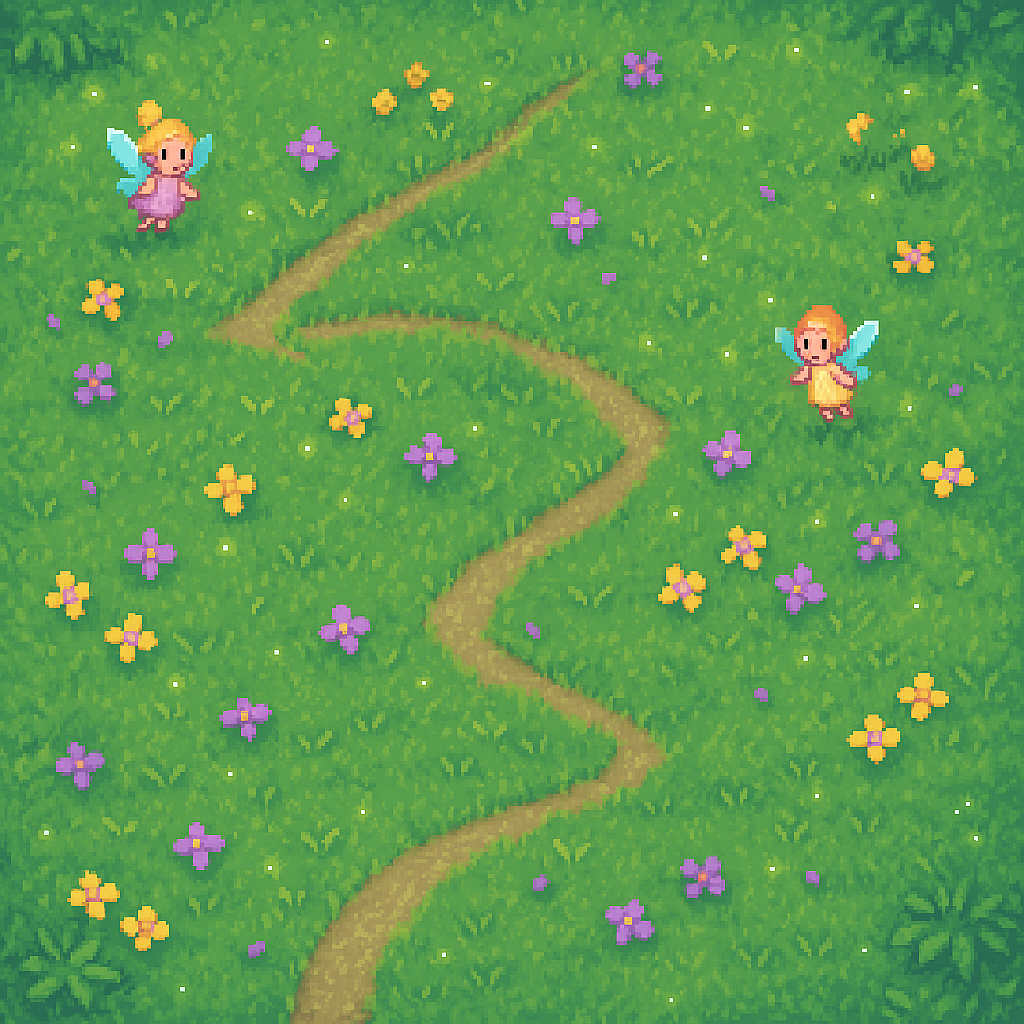
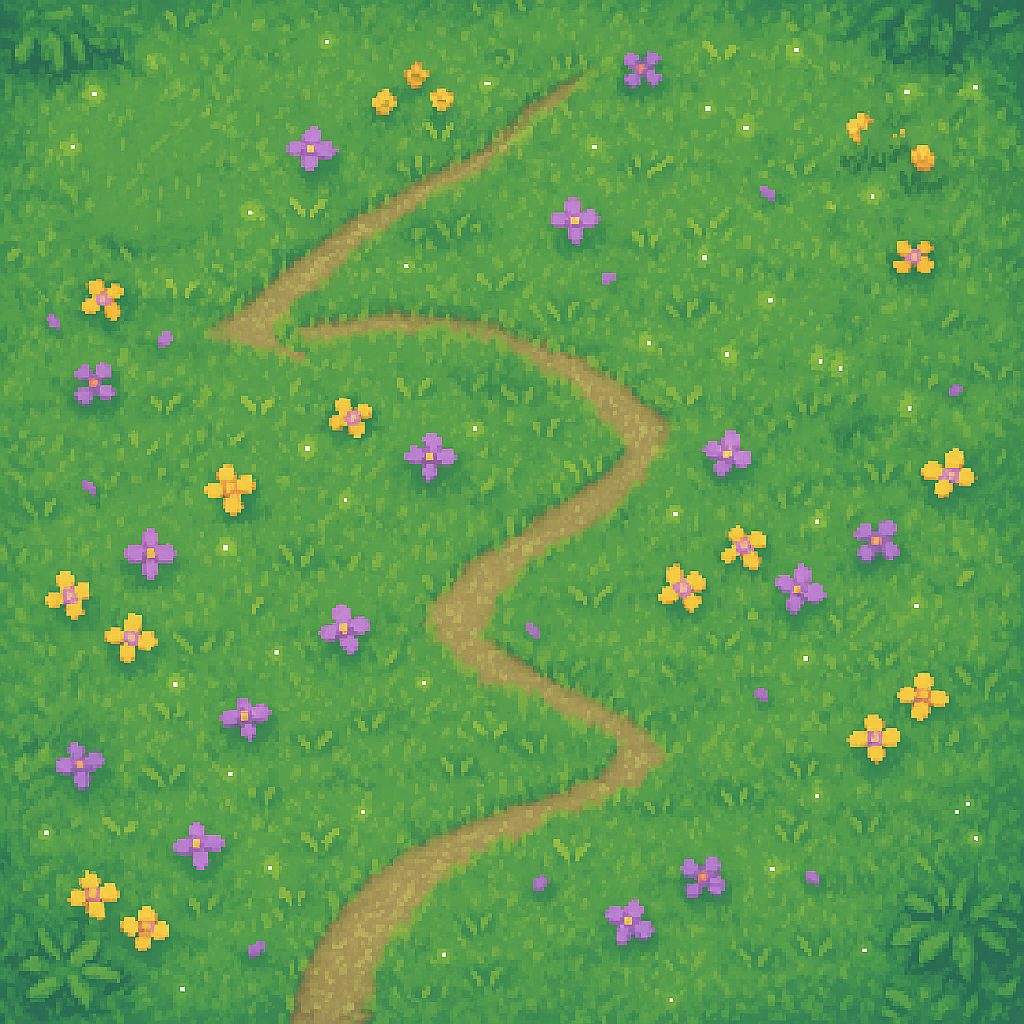
Ajustes tamanho da princesa e Ajuste visual do fundo

Changed region(s): [[0.75, 0.2812, 0.875, 0.4375], [0.0938, 0.0938, 0.2188, 0.25]]

diff --git a/code/jogo.c b/code/jogo.c
@@ -244,7 +244,13 @@
     }
 
     void DesenharPrincesa(const Princesa* princesa) {
-        DrawTexture(princesa->textura, princesa->posicao.x - princesa->largura / 2, princesa->posicao.y - princesa->altura / 2, WHITE);
+        float escala = 1.3f;
+        Vector2 posicao = {
+            princesa->posicao.x - (princesa->largura * escala) / 2,
+            princesa->posicao.y - (princesa->altura * escala) / 2
+        };
+        
+        DrawTextureEx(princesa->textura, posicao, 0.0f, escala, WHITE);
     }
 
     void AtualizarAtaques(Princesa* princesa) {
